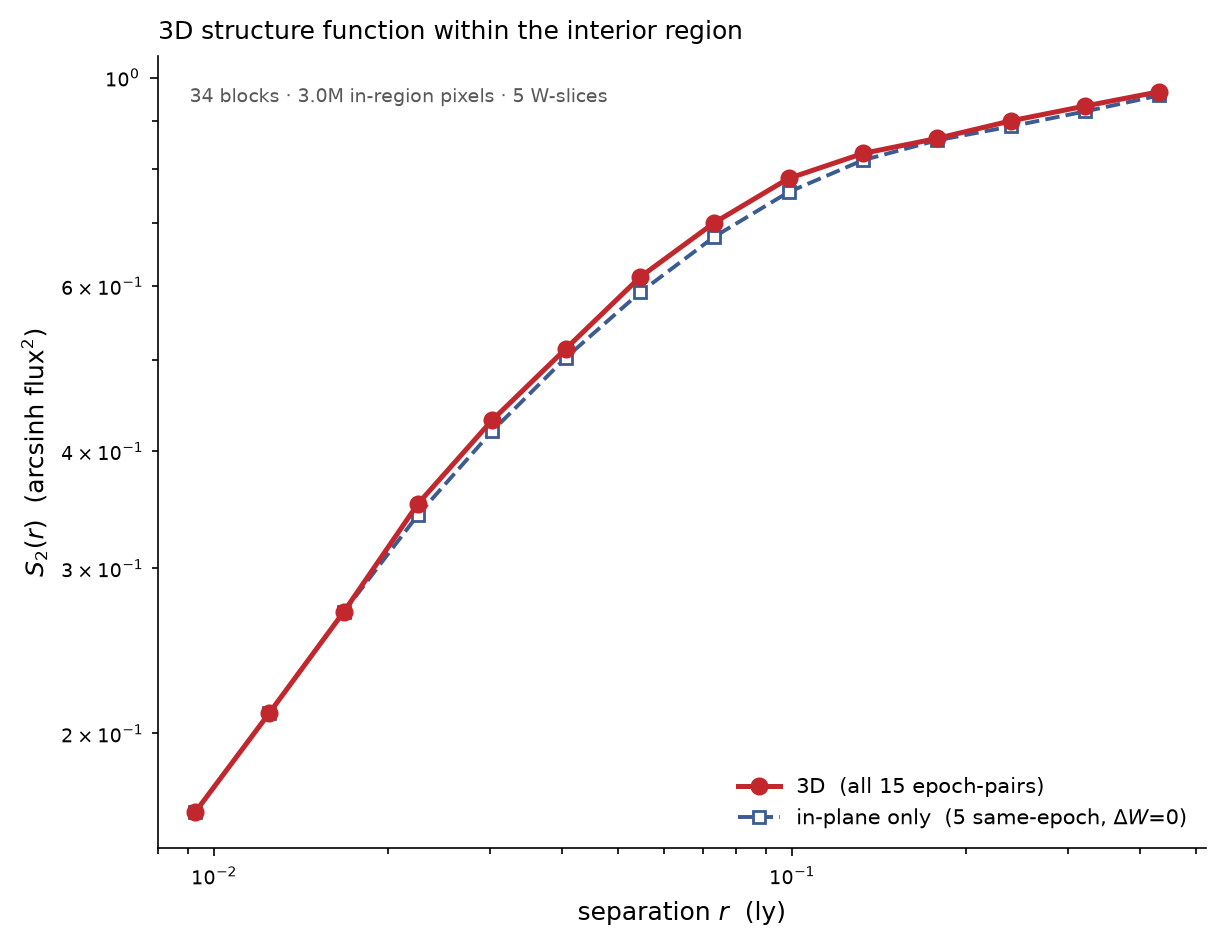
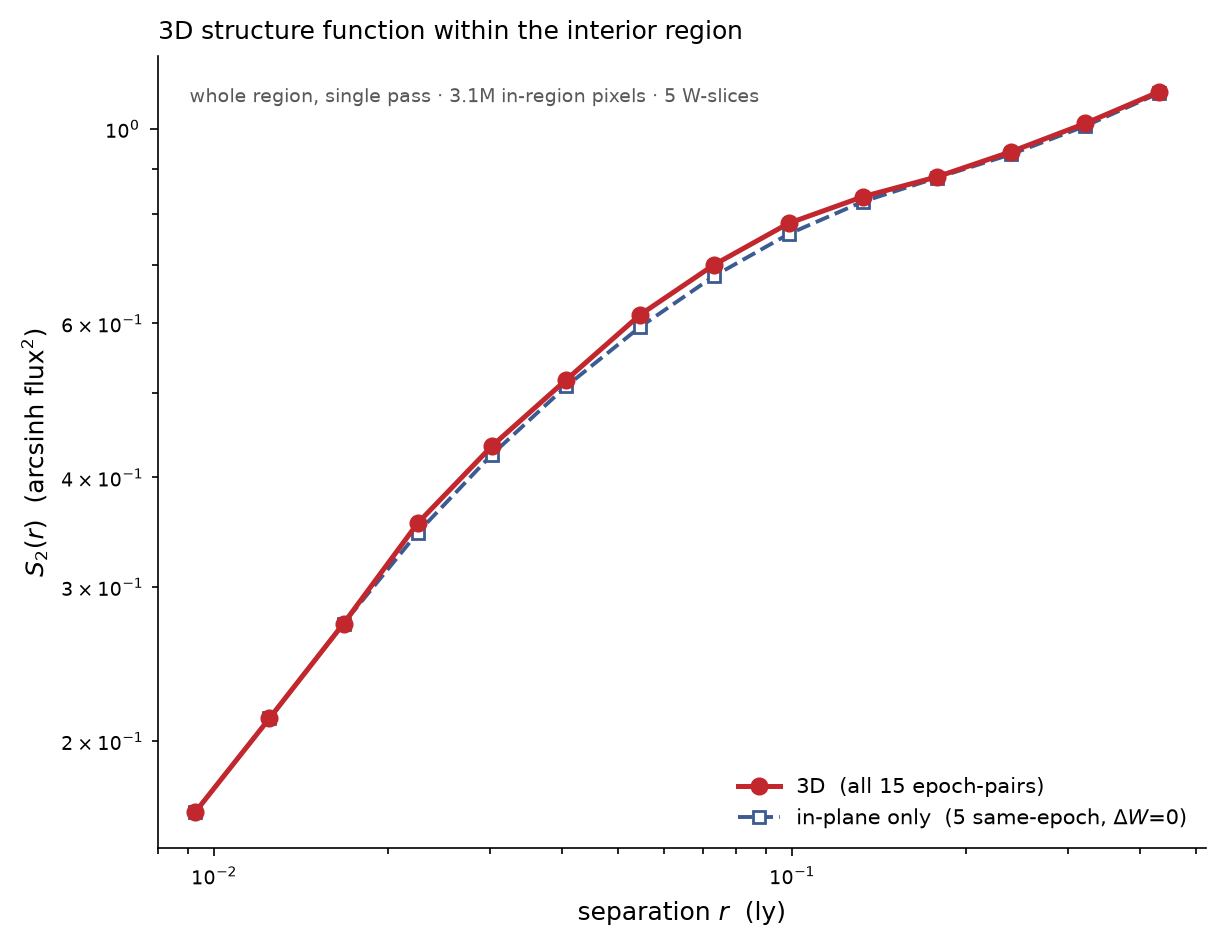
region_s2: single whole-region FFT pass instead of block tiling
The block-tiled version ran compute_s2 independently on each 400-px block and
dropped every pixel pair straddling a block boundary -- which excluded most
pairs at large lag (a 0.43 ly = 269 px pair could only be counted if both
pixels fell in the same 400-px block).  It also used a per-block mean/variance.

Now load the whole polygon bbox once, mask to the polygon, and run compute_s2
a single time over the whole masked region.  compute_s2's FFT cross-correlation
is global, so one pass counts every valid pair inside the clicked domain with a
single global mean/variance.  New compute_s2(maxlag_px=) crops the returned lag
plane to the lags of interest so the large-field call stays small (a full
uncropped plane for a multi-Mpix region is many GB).

Effect: N pairs at r=0.43 ly rises 3.2x; S2 no longer artificially flattens at
~0.97 but rises past 1.0 to ~1.10 -- the tiling was suppressing large-scale
power.  Small lags unchanged.

diff --git a/analysis/region_s2.py b/analysis/region_s2.py
@@ -1,16 +1,21 @@
-"""3D structure function averaged over a user-defined interior region.
+"""3D structure function over a user-defined interior region.
 
-Reads a polygon (data/interior_region.json, written by pick_region.py), tiles
-its bounding box into 400-px blocks (the normal window size), masks each block
-to the polygon (out-of-region pixels -> NaN), runs compute_s2 on all 5 epochs
-(the 5 W-slices), and accumulates the summed squared-differences and pair
-counts per lag across blocks.  Because compute_s2 stores s2 = dsq / N per lag,
-the accumulation is  sum(s2 * N) / sum(N)  -- an N-weighted average over the
-whole region, reproducing the per-window lag treatment exactly.
+Reads a polygon (data/interior_region.json, written by pick_region.py), loads
+its whole bounding box across all 5 epochs (the 5 W-slices) in one piece, masks
+every pixel outside the polygon to NaN, and runs compute_s2 ONCE on the whole
+masked region.  Because compute_s2's FFT cross-correlation is global, this
+single pass counts EVERY valid pixel pair inside the clicked domain out to the
+requested lag -- including pairs that straddle any arbitrary sub-block boundary,
+which an earlier block-tiled version silently dropped.  It also uses a single
+global mean and variance over the region rather than a per-block one.
 
-Results are binned by 3D separation r = sqrt(dU^2 + dV^2 + dW^2) out to the
-same cap the normal-window profiles use (R_HI_SAMPLED = 0.5 ly), with a
-separate in-plane-only curve (same-epoch pairs, dW = 0).
+compute_s2(..., maxlag_px=) crops the returned lag plane to |dU|,|dV| <= maxlag
+so the large-field call returns a small array (a full uncropped lag plane for a
+multi-Mpix region would be many GB, virtually all of it lags we never use).
+
+Results are binned by 3D separation r = sqrt(dU^2 + dV^2 + dW^2) out to the same
+cap the normal-window profiles use (R_HI_SAMPLED = 0.5 ly), with a separate
+in-plane-only curve (same-epoch pairs, dW = 0).
 """
 import json, os
 import numpy as np
@@ -21,7 +26,7 @@ import structure_function as sf
 RMAX = 0.5007          # ly — matches R_HI_SAMPLED in make_turnover_profiles.py
 RMIN = 8e-3            # ly — matches phys_profile rmin
 NBIN = 14             # matches phys_profile nbin
-BLOCK = 400           # px — normal window size
+MAXLAG_PX = 320       # px — lag crop; 0.5 ly / 0.0016 ly/pix = 312.5, +margin
 N_EPOCHS = 5
 S2_KW = dict(background=0.03, arcsinh_scale=0.03,
              subtract_mean='global', assume_stationary=True,
@@ -34,75 +39,52 @@ def load_polygon(path):
     return v, d
 
 
-def block_grid(vcol, vrow, block=BLOCK):
-    """Non-overlapping block origins (row0, col0) tiling the polygon bbox."""
-    r0, r1 = int(np.floor(vrow.min())), int(np.ceil(vrow.max()))
-    c0, c1 = int(np.floor(vcol.min())), int(np.ceil(vcol.max()))
-    rows = list(range(r0, r1, block))
-    cols = list(range(c0, c1, block))
-    return rows, cols, (r0, r1, c0, c1)
+def accumulate(poly_path, data_dir, maxlag_px=MAXLAG_PX, verbose=True):
+    """Load the whole polygon bbox, mask to the polygon, run compute_s2 once.
 
-
-def accumulate(poly_path, data_dir, block=BLOCK, min_frac=0.02, verbose=True):
-    """Tile the region, run compute_s2 per block, accumulate dsq & N per lag.
-
-    Returns a dict with the accumulated s2 grid (n_pairs, 2b-1, 2b-1), n_counts,
-    lag_du, lag_dv, lag_dw, epoch_pairs, plus bookkeeping.
+    Returns a dict with the region s2 grid (n_pairs, 2*ml+1, 2*ml+1), n_counts,
+    lag_du, lag_dv, lag_dw, epoch_pairs, plus bookkeeping.  For downstream
+    binning the key 'dsq' = s2 * n_counts is provided (so bin_by_separation is
+    shared with the old tiled path unchanged).
     """
     verts, meta = load_polygon(poly_path)
     vcol, vrow = verts[:, 0], verts[:, 1]
     path = Path(verts)                              # (col, row) order
     H, W = meta['field_shape_HxW']
 
-    rows, cols, bbox = block_grid(vcol, vrow, block)
-    acc_dsq = acc_N = None
-    lag_du = lag_dv = lag_dw = epoch_pairs = None
-    n_blocks_used = 0
-    total_pix = 0
+    r0, r1 = int(np.floor(vrow.min())), int(np.ceil(vrow.max()))
+    c0, c1 = int(np.floor(vcol.min())), int(np.ceil(vcol.max()))
+    r1 = min(r1, H); c1 = min(c1, W)
+    bbox = (r0, r1, c0, c1)
+    if verbose:
+        print(f'  bbox rows(V) {r0}:{r1} ({r1 - r0}) '
+              f'cols(U) {c0}:{c1} ({c1 - c0})', flush=True)
 
-    for r0 in rows:
-        r1 = min(r0 + block, H)
-        for c0 in cols:
-            c1 = min(c0 + block, W)
-            # in-polygon mask for this block, in absolute pixel coords
-            cc, rr = np.meshgrid(np.arange(c0, c1), np.arange(r0, r1))
-            inside = path.contains_points(
-                np.column_stack([cc.ravel(), rr.ravel()])
-            ).reshape(rr.shape)
-            npix = int(inside.sum())
-            if npix < min_frac * (block * block):
-                continue
+    # in-polygon mask over the whole bbox, in absolute pixel coords
+    cc, rr = np.meshgrid(np.arange(c0, c1), np.arange(r0, r1))
+    inside = path.contains_points(
+        np.column_stack([cc.ravel(), rr.ravel()])
+    ).reshape(rr.shape)
+    total_pix = int(inside.sum())
+    if verbose:
+        print(f'  in-polygon pixels: {total_pix} '
+              f'({100 * total_pix / inside.size:.1f}% of bbox)', flush=True)
 
-            data = sf._read_noclip_region(
-                data_dir, slice(r0, r1), slice(c0, c1),
-                tuple(range(N_EPOCHS)), stride=1)
-            flux = data['flux_epochs']              # (5, nr, nc)
-            # blank everything outside the polygon
-            flux[:, ~inside] = np.nan
-            data['flux_epochs'] = flux
+    data = sf._read_noclip_region(
+        data_dir, slice(r0, r1), slice(c0, c1),
+        tuple(range(N_EPOCHS)), stride=1)
+    flux = data['flux_epochs']                      # (5, nr, nc)
+    flux[:, ~inside] = np.nan                        # blank outside the polygon
+    data['flux_epochs'] = flux
 
-            res = sf.compute_s2(data, **S2_KW)
-            s2, N = res['s2'], res['n_counts']
-            dsq = np.where(N > 0, s2 * N, 0.0)
+    res = sf.compute_s2(data, maxlag_px=maxlag_px, **S2_KW)
+    s2, N = res['s2'], res['n_counts']
+    dsq = np.where(N > 0, s2 * N, 0.0)
 
-            if acc_dsq is None:
-                acc_dsq = np.zeros_like(dsq, dtype=np.float64)
-                acc_N = np.zeros_like(N, dtype=np.int64)
-                lag_du, lag_dv = res['lag_du'], res['lag_dv']
-                lag_dw, epoch_pairs = res['lag_dw'], res['epoch_pairs']
-            # blocks can differ in size at the field edge; only accumulate
-            # matching-shape blocks (interior blocks are full BLOCK x BLOCK)
-            if dsq.shape == acc_dsq.shape:
-                acc_dsq += dsq
-                acc_N += N
-                n_blocks_used += 1
-                total_pix += npix
-            if verbose:
-                print(f'  block r{r0} c{c0}: {npix} in-poly px', flush=True)
-
-    return dict(dsq=acc_dsq, n_counts=acc_N, lag_du=lag_du, lag_dv=lag_dv,
-                lag_dw=lag_dw, epoch_pairs=epoch_pairs,
-                n_blocks=n_blocks_used, n_pix=total_pix, bbox=bbox, meta=meta)
+    return dict(dsq=dsq, n_counts=N,
+                lag_du=res['lag_du'], lag_dv=res['lag_dv'],
+                lag_dw=res['lag_dw'], epoch_pairs=res['epoch_pairs'],
+                n_blocks=1, n_pix=total_pix, bbox=bbox, meta=meta)
 
 
 def bin_by_separation(acc, rmin=RMIN, rmax=RMAX, nbin=NBIN):

diff --git a/structure_function.py b/structure_function.py
@@ -453,7 +453,8 @@ def compute_s2(data: dict,
                assume_stationary: bool = True,
                background: float | np.ndarray | None = 0.03,
                arcsinh_scale: float | None = 0.03,
-               subtract_mean: str = 'global') -> dict:
+               subtract_mean: str = 'global',
+               maxlag_px: int | None = None) -> dict:
     """
     Compute the 3D structure function for one chunk.
 
@@ -605,7 +606,25 @@ def compute_s2(data: dict,
         MF_fft  = [rfft2(masks[e] * f_[e],    s=fft_shape) for e in range(n_epochs)]
         MF2_fft = [rfft2(masks[e] * f_[e]**2, s=fft_shape) for e in range(n_epochs)]
 
-    out_shape = (n_pairs, 2 * n_rows - 1, 2 * n_cols - 1)
+    # Optional lag crop: keep only |dU|,|dV| <= maxlag_px pixels.  The FFT
+    # cross-correlation is global (it already counts every valid pair over the
+    # whole field, including pairs that would straddle any sub-block boundary),
+    # so cropping the *output* to the lags of interest lets a single large-field
+    # call return a small array without changing any counted pair.  Crop indices
+    # are taken in FFT-natural order (0..+max, then -max..-1), so the cropped
+    # arrays remain fftshift-compatible.
+    if maxlag_px is not None:
+        ml = int(maxlag_px)
+        ri = np.r_[0:ml + 1, (2 * n_rows - 1) - ml: 2 * n_rows - 1]
+        ci = np.r_[0:ml + 1, (2 * n_cols - 1) - ml: 2 * n_cols - 1]
+        lag_du = lag_du[ci]
+        lag_dv = lag_dv[ri]
+        out_r, out_c = len(ri), len(ci)
+    else:
+        ri = ci = None
+        out_r, out_c = 2 * n_rows - 1, 2 * n_cols - 1
+
+    out_shape = (n_pairs, out_r, out_c)
     s2       = np.full(out_shape, np.nan, dtype=np.float32)
     n_counts = np.zeros(out_shape, dtype=np.int32)
 
@@ -615,6 +634,9 @@ def compute_s2(data: dict,
             M_fft[j], MF_fft[j], MF2_fft[j],
             fft_shape, n_rows, n_cols,
         )
+        if ri is not None:
+            dsq = dsq[np.ix_(ri, ci)]
+            N   = N[np.ix_(ri, ci)]
         valid = N >= 0.5
         s2[k][valid]  = dsq[valid] / N[valid]
         n_counts[k]   = N
